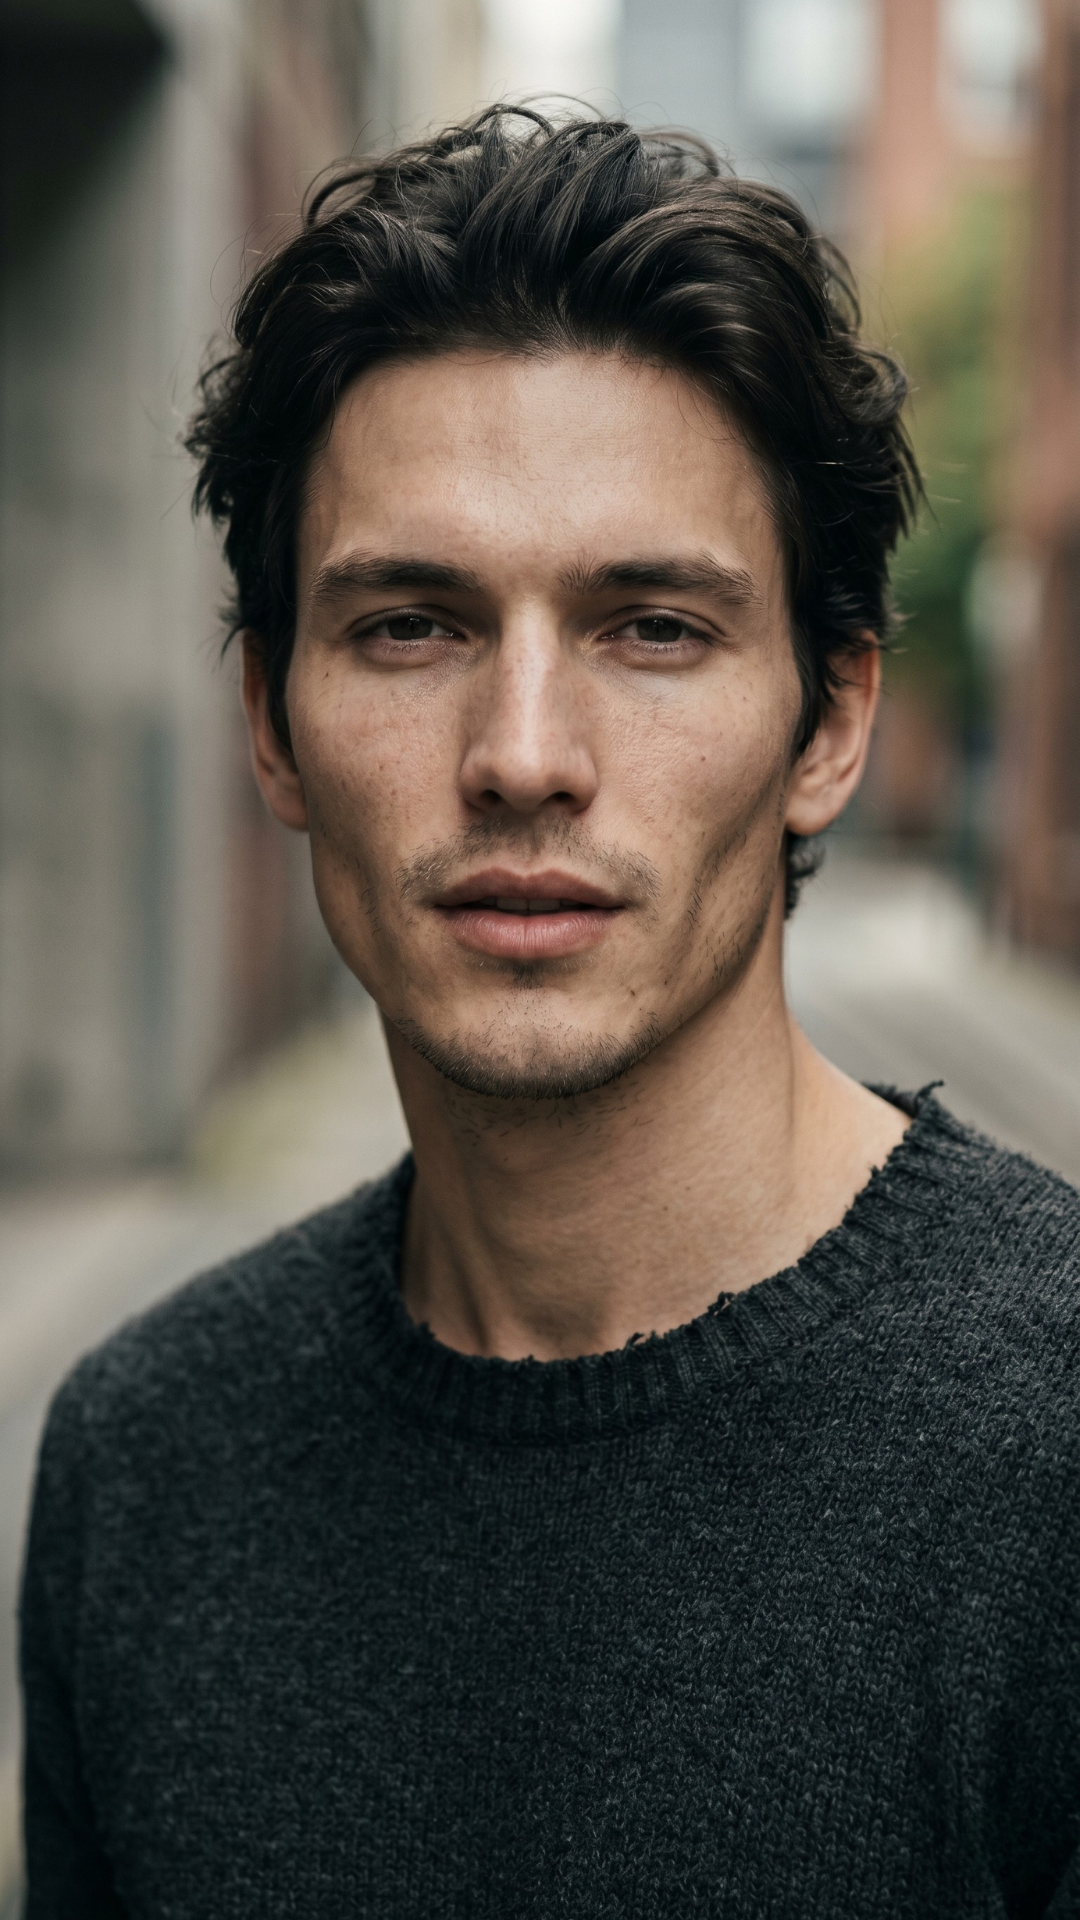
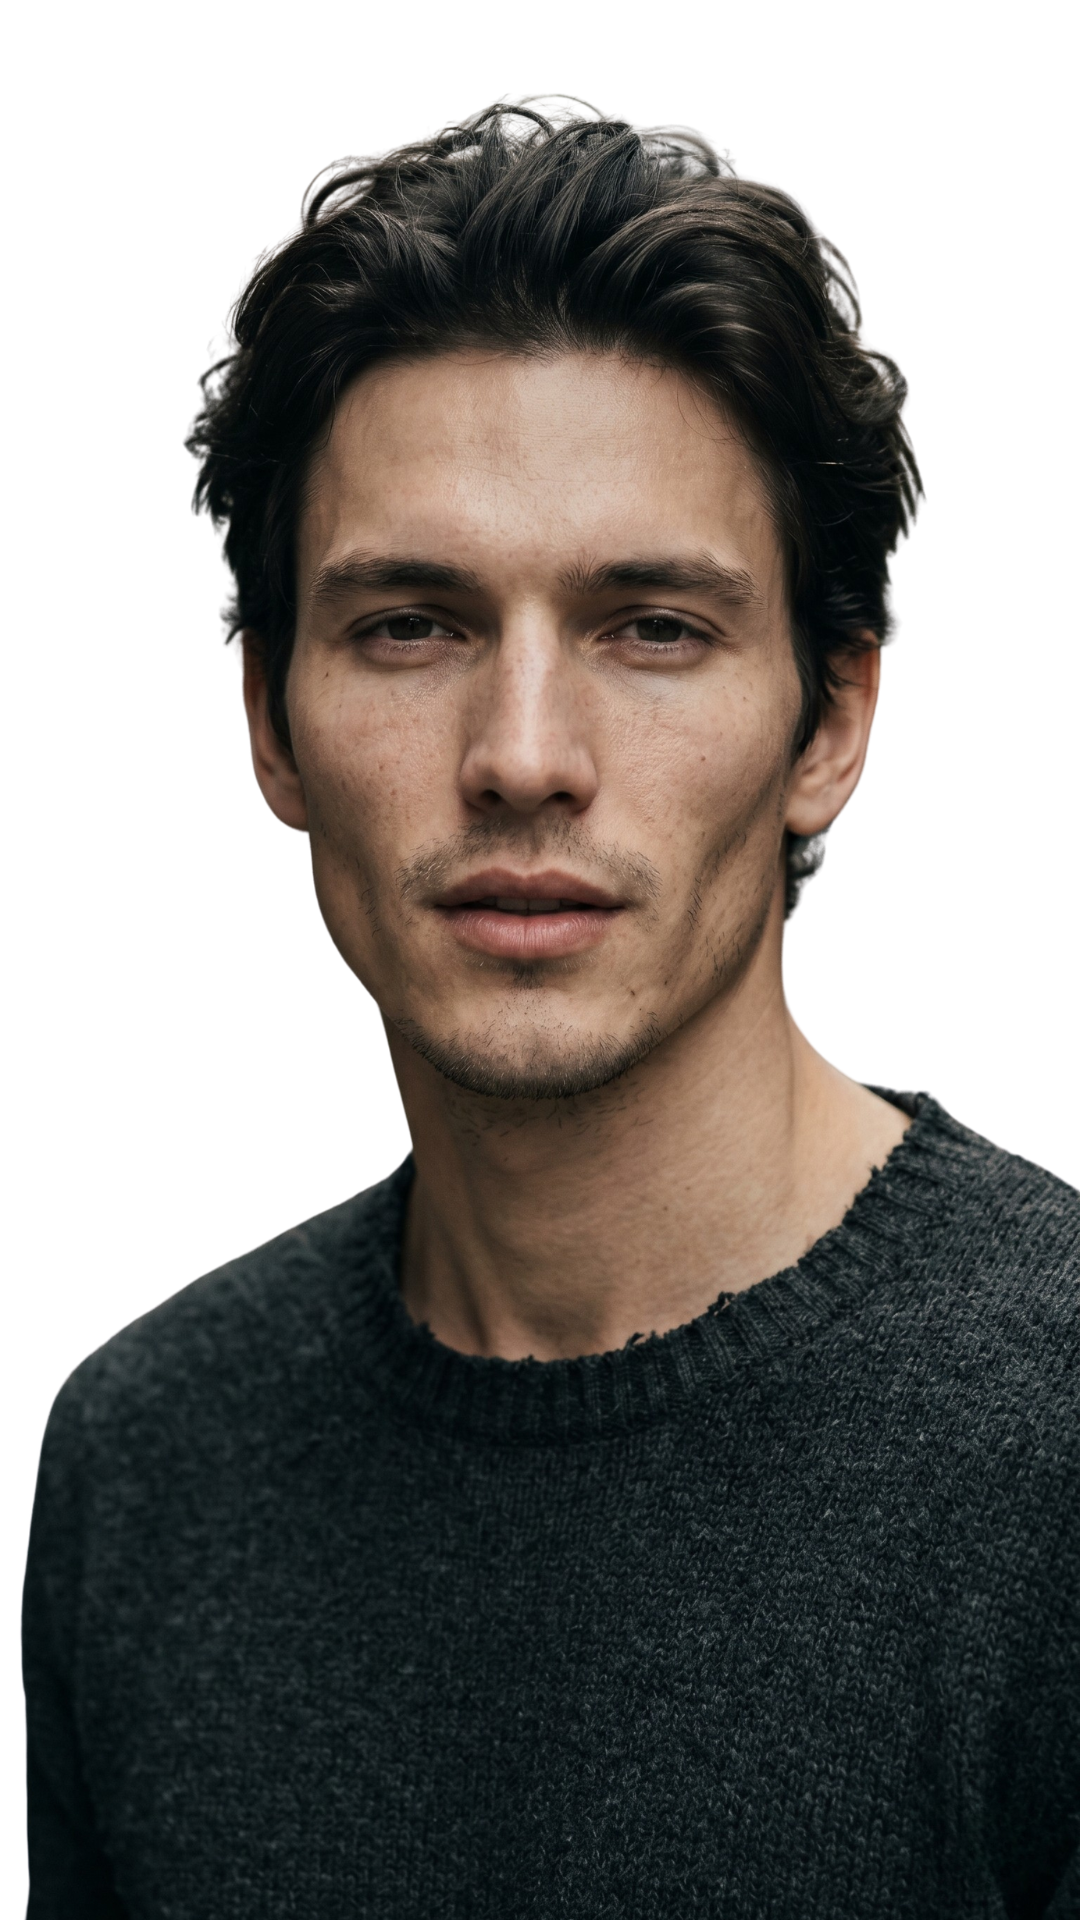
Update ebba/lukas/otto face images; bulk-approve batch 8 demos (271 total)
- New face.png files for all three models (copied from Desktop, May 13 set)
- Bump MODEL_IMG_V to 3 to force browser cache refresh on the right-side
  widget preview and final result popup
- 60 newly approved demos from batch 8 QA round (271 total approved)

diff --git a/components/AutoDemoPage.tsx b/components/AutoDemoPage.tsx
@@ -13,7 +13,7 @@ const CALENDLY_URL = 'https://calendly.com/mail-renderedfits/15-minute-meeting';
 const HOME_URL = 'https://www.renderedfits.com/';
 
 const ACCENT = '#444833';
-const MODEL_IMG_V = 2; // bump when model face/body images are updated
+const MODEL_IMG_V = 3; // bump when model face/body images are updated
 const mv = (src: string) => `${src}?v=${MODEL_IMG_V}`;
 const FRAME_HEIGHT = 640; // px — both left product frame and right widget share this height
 